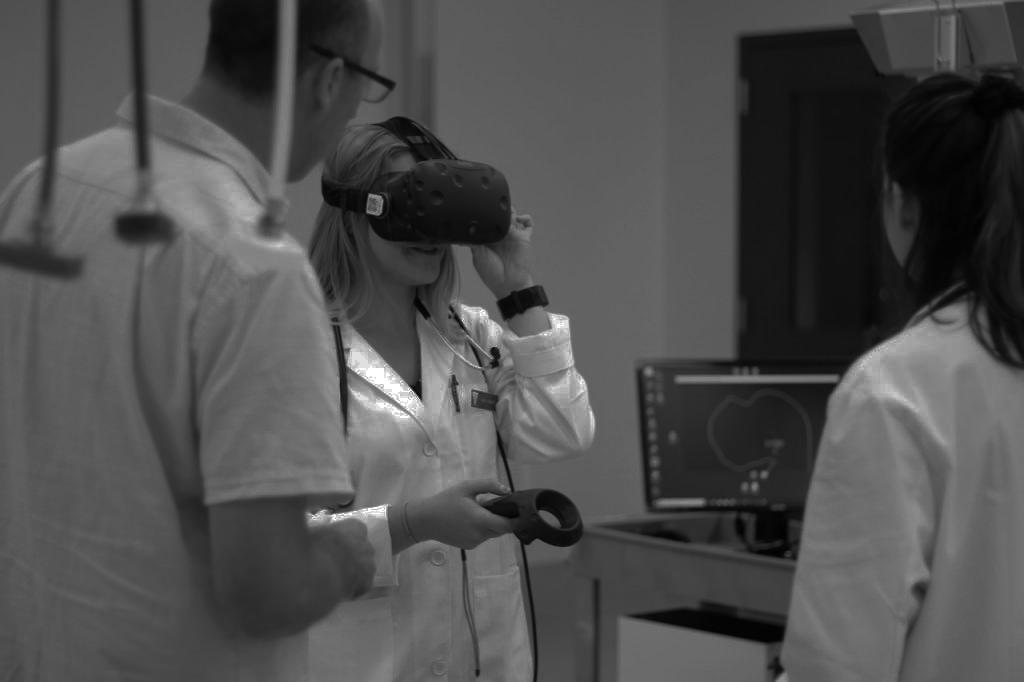
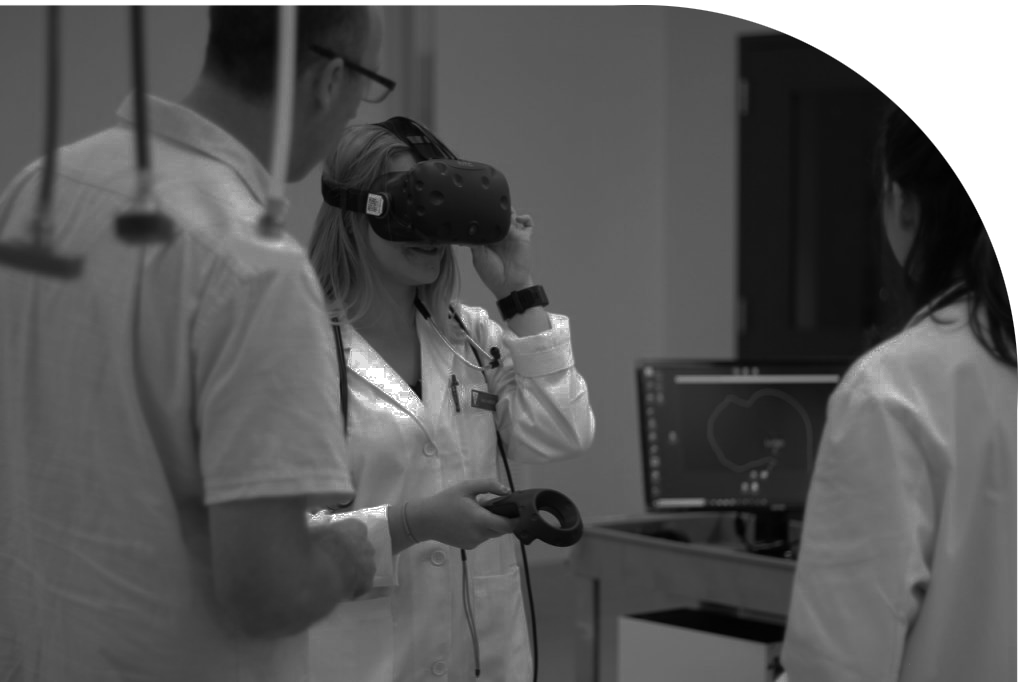
contact changes

Changed region(s): [[0.0, 0.0, 1.0, 1.0]]

diff --git a/main.css b/main.css
@@ -863,7 +863,7 @@ model-card {
 #contact-artwork {
 	position:absolute;
 	left:0px;
-	top: 70%;
+	top: 75%;
 	transform: scale(0.7) translateY(-50%);
 	transform-origin: top left;
 	pointer-events: none;
